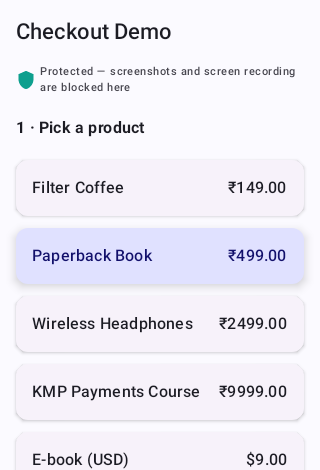
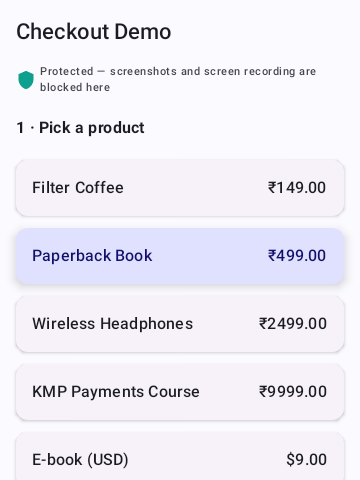
test(screenshots): checkout-lifecycle comparison set for the portfolio site
Three frames of the same CheckoutScreen at three points in one transaction, which
is this project's actual thesis: a payment is not done when the client SDK says
so. Pick product and gateway, then the client's optimistic return, then the
settled truth.

Only possible now that the three states render distinctly — until today they were
byte-identical, because the differing content sits below the captured fold and the
repo had no record gate at all.

diff --git a/app/src/test/kotlin/com/paymentslab/app/screenshot/ScreenshotCatalogTest.kt b/app/src/test/kotlin/com/paymentslab/app/screenshot/ScreenshotCatalogTest.kt
@@ -485,6 +485,15 @@ class ScreenshotCatalogTest {
         }
 
     // ── CheckoutScreen (redesign) — a selected product/gateway, floating-elevation selection ───
+    /**
+     * The three checkout frames are the site's comparison set, so they carry a screen qualifier the
+     * other captures do not. Robolectric's default screen is 320x470 (aspect 0.68) while the
+     * portfolio's compare frame is 420x560 (aspect 0.75) with `object-cover object-top` — a 0.68
+     * capture loses its bottom 9%, which is exactly where the settled verdict banner sits. 360x480
+     * matches the frame's aspect exactly (nothing cropped) and matches the 360dp Surface these
+     * screens declare, so the right edge stops being clipped by 40dp too.
+     */
+    @Config(sdk = [34], application = android.app.Application::class, qualifiers = "w360dp-h480dp-mdpi")
     @Test
     fun checkoutScreen_orderSummary() =
         snapshotScreen("checkout_screen_order_summary") {
@@ -522,9 +531,18 @@ class ScreenshotCatalogTest {
             .map { it.copy(state = StepState.DONE) }
             .toImmutableList()
 
+    /**
+     * The three checkout frames are the site's comparison set, so they carry a screen qualifier the
+     * other captures do not. Robolectric's default screen is 320x470 (aspect 0.68) while the
+     * portfolio's compare frame is 420x560 (aspect 0.75) with `object-cover object-top` — a 0.68
+     * capture loses its bottom 9%, which is exactly where the settled verdict banner sits. 360x480
+     * matches the frame's aspect exactly (nothing cropped) and matches the 360dp Surface these
+     * screens declare, so the right edge stops being clipped by 40dp too.
+     */
+    @Config(sdk = [34], application = android.app.Application::class, qualifiers = "w360dp-h480dp-mdpi")
     @Test
     fun checkoutScreen_paying() =
-        snapshotScreen("checkout_screen_paying", reducedMotion = true, scrollTo = "What's happening") {
+        snapshotScreen("checkout_screen_paying", reducedMotion = true, scrollTo = "awaiting server verdict") {
             CheckoutScreen(
                 state = checkoutStateBase().copy(steps = sampleTimeline(), isRunning = true),
                 onSelectProduct = {},
@@ -533,9 +551,18 @@ class ScreenshotCatalogTest {
             )
         }
 
+    /**
+     * The three checkout frames are the site's comparison set, so they carry a screen qualifier the
+     * other captures do not. Robolectric's default screen is 320x470 (aspect 0.68) while the
+     * portfolio's compare frame is 420x560 (aspect 0.75) with `object-cover object-top` — a 0.68
+     * capture loses its bottom 9%, which is exactly where the settled verdict banner sits. 360x480
+     * matches the frame's aspect exactly (nothing cropped) and matches the 360dp Surface these
+     * screens declare, so the right edge stops being clipped by 40dp too.
+     */
+    @Config(sdk = [34], application = android.app.Application::class, qualifiers = "w360dp-h480dp-mdpi")
     @Test
     fun checkoutScreen_settledSuccess() =
-        snapshotScreen("checkout_screen_settled_success", reducedMotion = true, scrollTo = "What's happening") {
+        snapshotScreen("checkout_screen_settled_success", reducedMotion = true, scrollTo = "Server-authoritative") {
             CheckoutScreen(
                 state =
                     checkoutStateBase().copy(
